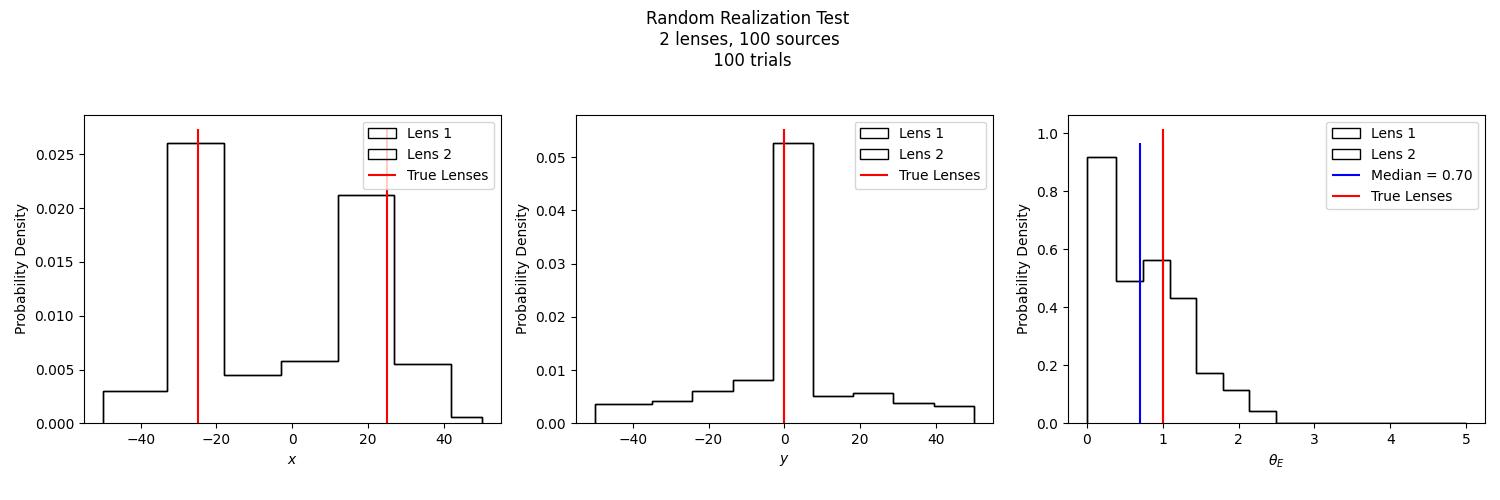
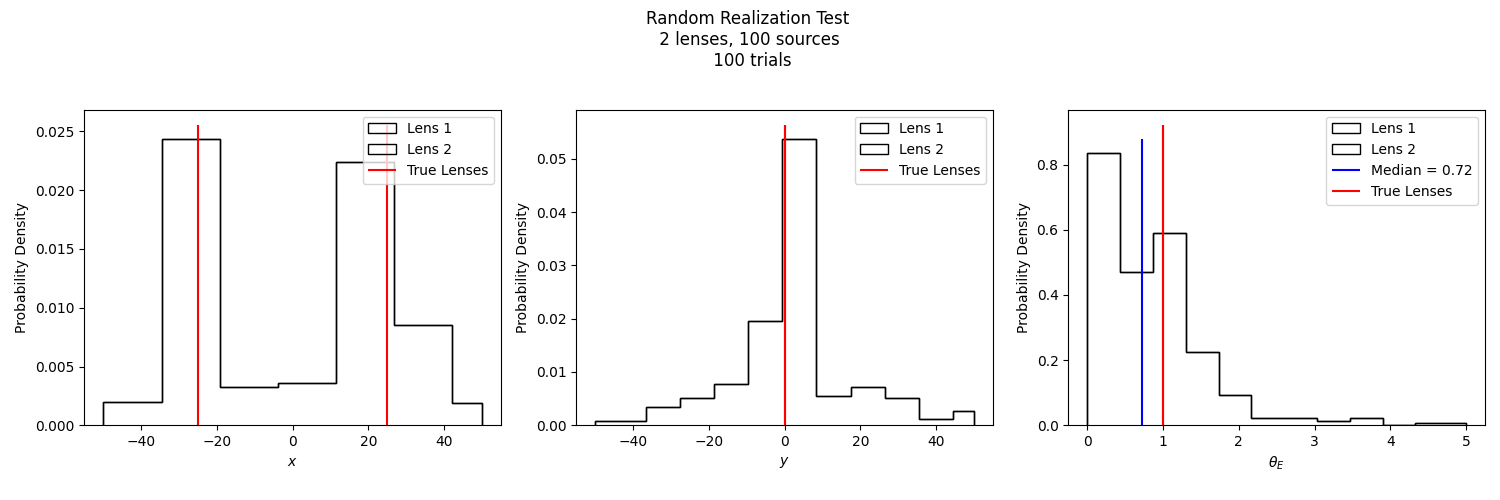
Updated tests - minimization solved

diff --git a/test_pipeline.py b/test_pipeline.py
@@ -393,18 +393,33 @@ def vary_eR_chi(telens, nlens, exact_pos = False):
 
 if __name__ == '__main__':
     # test_initial_guesser()
-    # run_simple_test(2, 100, 50, flags=False)
+    # run_simple_test(2, 100, 50, flags=True)
     # visualize_pipeline_steps(2, 100, 50)
 
     # raise SystemExit
 
-    nlens = [1,2]
-    Ntrials = 1000
+    nlens = [2]
+    Ntrials = 500
     Nsource = 100
     xmax = 50
 
     for nl in nlens:
+        old_xsol = np.load('Data//xsol_{}_lens_{}_source.npy'.format(nl, Nsource))
+        old_ysol = np.load('Data//ysol_{}_lens_{}_source.npy'.format(nl, Nsource))
+        old_er = np.load('Data//er_{}_lens_{}_source.npy'.format(nl, Nsource))
+
         xsol, ysol, er, true_lenses = generate_random_realizations(Ntrials, Nlens=nl, Nsource=Nsource, xmax=xmax, sigf=0.01, sigs=0.1)
+
+        xsol = np.concatenate((old_xsol, xsol))
+        ysol = np.concatenate((old_ysol, ysol))
+        er = np.concatenate((old_er, er))
+
+        np.save('Data//xsol_{}_lens_{}_source'.format(nl, Nsource), xsol)
+        np.save('Data//ysol_{}_lens_{}_source'.format(nl, Nsource), ysol)
+        np.save('Data//er_{}_lens_{}_source'.format(nl, Nsource), er)
+
+        Ntrials = len(xsol[:, 0])
+
         plot_random_realizations(xsol, ysol, er, true_lenses, nl, Nsource, Ntrials, xmax, distinguish_lenses=False)
 
     raise SystemExit

diff --git a/pipeline.py b/pipeline.py
@@ -77,7 +77,7 @@ class Lens:
     def optimize_lens_positions(self, sources, sigs, sigf):
         # Given a set of initial guesses for lens positions, find the optimal lens positions
         # via local minimization
-        max_attempts = 5  
+        max_attempts = 1
         for i in range(len(self.x)):
             one_source = Source(sources.x[i], sources.y[i], sources.e1[i], sources.e2[i], sources.f1[i], sources.f2[i])
             guess = [self.x[i], self.y[i], self.te[i]] # Class is already initialized with initial guesses\
@@ -89,7 +89,7 @@ class Lens:
                     chi2wrapper, guess, args=([one_source, sigf, sigs]), 
                     method='Nelder-Mead', 
                     tol=1e-8, 
-                    options={'maxiter': 1000}
+                    options={'maxiter': 500}
                 )
 
                 if best_result is None or result.fun < best_result.fun:
